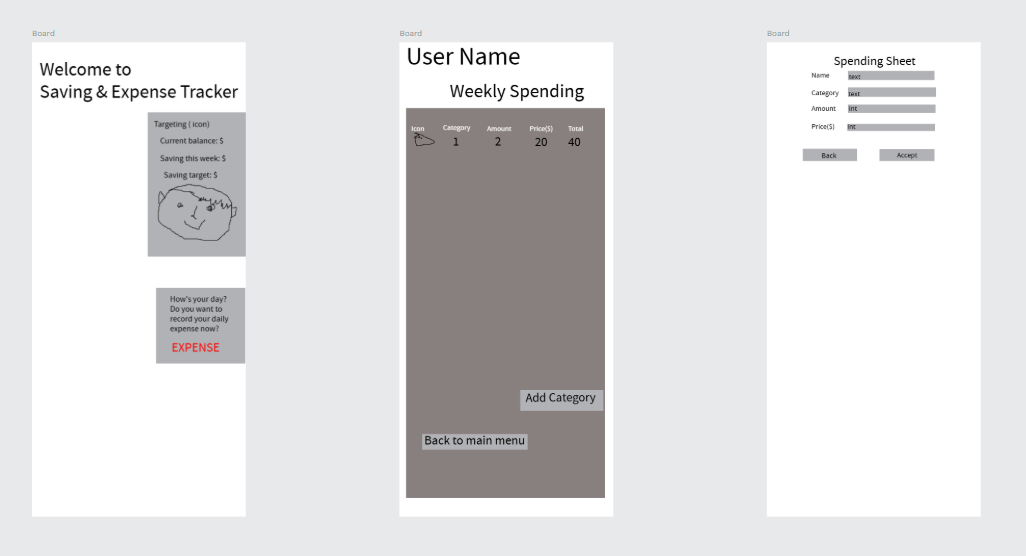
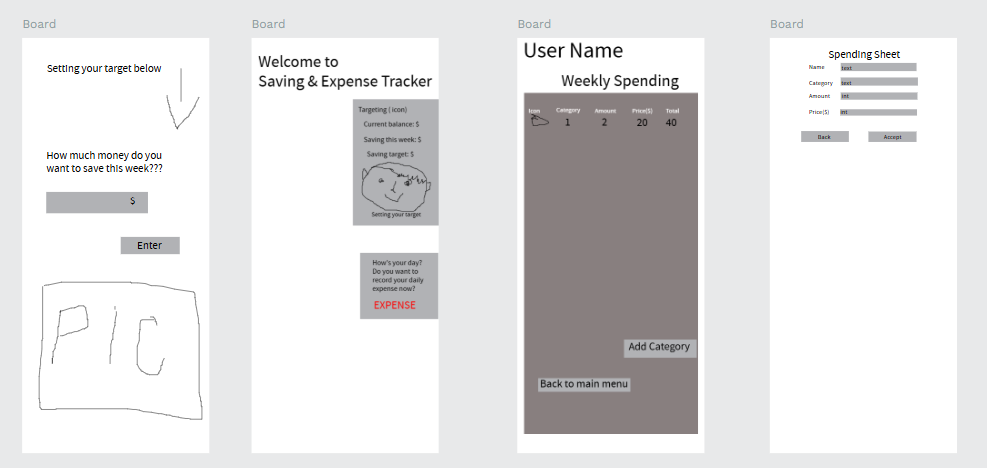
sprint1-update

diff --git a/app/db/config.py b/app/db/config.py
@@ -15,12 +15,12 @@
 #     SEED_DATA = "INSERT INTO name (...)" or None
 #----------------------------------------------------------------------------
 
-class NoteTable:
+class SavingsTable:
 
-    NAME = "note"
+    NAME = "Savings"
 
     SCHEMA = """
-        CREATE TABLE note (
+        CREATE TABLE savings (
             id      INTEGER PRIMARY KEY AUTOINCREMENT,
             title   TEXT NOT NULL,
             body    TEXT,
@@ -30,11 +30,11 @@ class NoteTable:
     """
 
     SEED_DATA = """
-        INSERT INTO note (title, pinned, body)
+        INSERT INTO savings (title, pinned, body)
         VALUES
             ("Welcome!",      1, "This is a demo application using Flask, Jinja and SQLite."),
             ("Shopping List", 0, "Milk\nBread\nEggs\nCheese"),
-            ("Meeting Notes", 0, "Discussed project timeline.\n\nAction items:\n- Review design\n- Update docs"),
+            ("Meeting savings trackers", 0, "Discussed project timeline.\n\nAction items:\n- Review design\n- Update docs"),
             ("Recipe: Pasta", 0, "Ingredients:\n- 500g pasta\n- Tomato sauce\n- Garlic\n\nCook pasta, add sauce, enjoy!"),
             ("Important!",    1, "Remember to backup your database regularly.")
     """
@@ -54,12 +54,12 @@ class NoteTable:
 #     etc.
 # ]
 #
-# Note: The table order is important - Create the tables that have
+# savings : The table order is important - Create the tables that have
 # foreign keys *after* the tables they link to have been created
 #----------------------------------------------------------------------------
 
 TABLES = [
-    NoteTable,
+    SavingsTable,
     # Add more tables here...
 ]
 

diff --git a/docs/evidence/sprint-1-prototype.md b/docs/evidence/sprint-1-prototype.md
@@ -33,17 +33,35 @@ Replace this text with notes regarding the DB design.
 
 ### Required Data Input
 
-The user will put in what they spending for, what type of it and how much was it. 
+The user will enter:
+
+What they spent money on.
+The type/category of the expense.
+The amount spent.
+The date of the expense.
+Their weekly savings target.
+Their available or starting amount of money.
 
 ### Required Data Output
 
-The system will reveal their spending of the week, how much did user saves and target savings.
+The system will display:
+
+The user's total spending for the week.
+The amount of money remaining.
+The amount saved.
+The user's weekly savings target.
+Progress towards the savings target.
+A warning when savings are close to or below the target.
+A weekly summary at the end of the week.
 
 ### Required Data Processing
 
 total money = spending x amount
-total spending = sum of every spending x amount
-money left = initial money - spending
+total spending = sum of all expense amount
+money left = initial money - total spending
+money saved = money left
+savings progress = money saved compare to the weekly savings target
+
 
 ## UI 'Flow'
 
@@ -53,15 +71,19 @@ This PenPot demo shows the initial design for the UI 'flow':
 
 ![ui flow v1](screenshots/UI-flow.png)
 
-You can acess the flow [here](https://design.penpot.app/#/view?file-id=3be9e5e1-190f-8090-8008-705aa457ca4e&page-id=3be9e5e1-190f-8090-8008-705aa457ca4f&section=interactions&index=0&share-id=3be9e5e1-190f-8090-8008-7ff68e44b7b2)
+You can acess the flow [here](https://design.penpot.app/#/view?file-id=3be9e5e1-190f-8090-8008-705aa457ca4e&page-id=3be9e5e1-190f-8090-8008-705aa457ca4f&section=interactions&index=0&share-id=c269caa0-e456-818c-8008-88de1439d378)
 
 ### Testing
 
-Replace this text with notes about what you did to test the UI flow and the outcome of the testing.
+The initial UI flow was tested by following the main user tasks step by step. The test focused on whether a user could understand where to start, add an expense, set a savings target, return to the home screen, and view their progress. Make sure it connected
 
 ### Changes / Improvements
 
-Replace this text with notes any improvements you made as a result of the testing.
+-Making the Add Expense button easier to find.
+-Reducing the number of steps required to record an expense.
+-Making the savings target easier to access and edit.
+-Adding clearer navigation between the home screen, expense screen, and weekly summary.
+-Showing the user's savings progress on the main screen.
 
 *IMPROVED FIGMA FLOW - PLACE THE FIGMA EMBED CODE HERE - MAKE SURE IT IS SET SO THAT EVERYONE CAN ACCESS IT*
 
